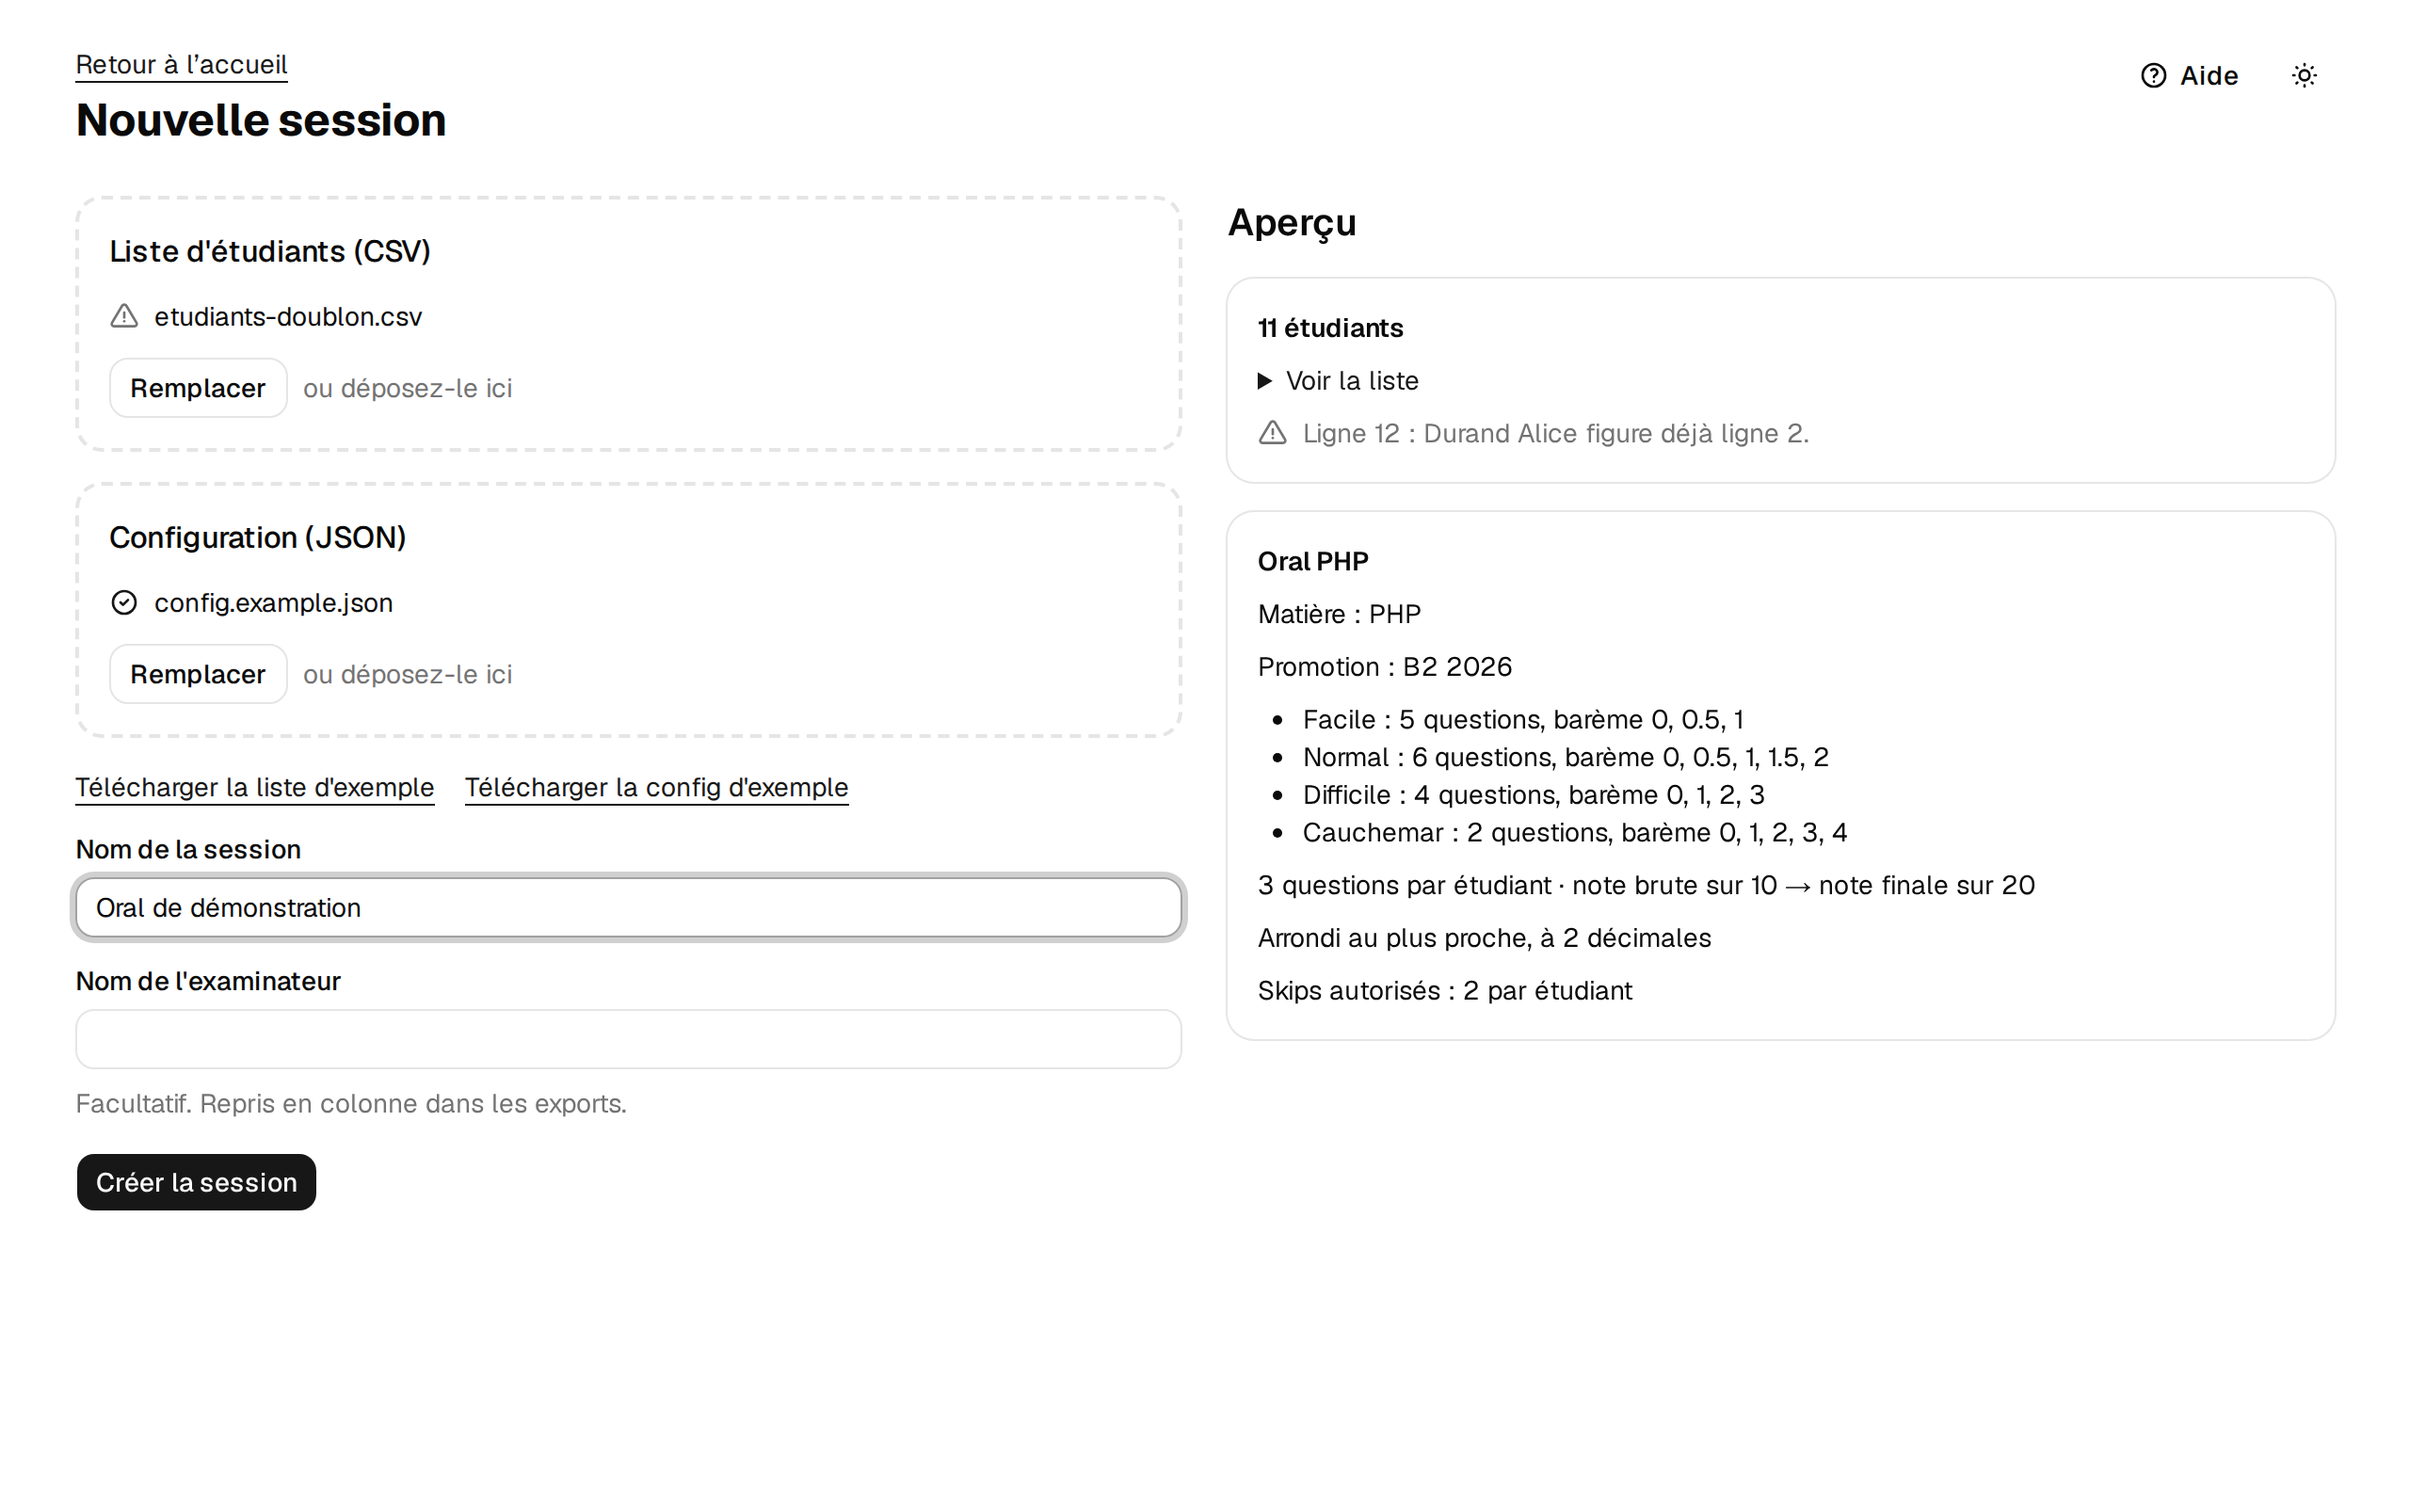
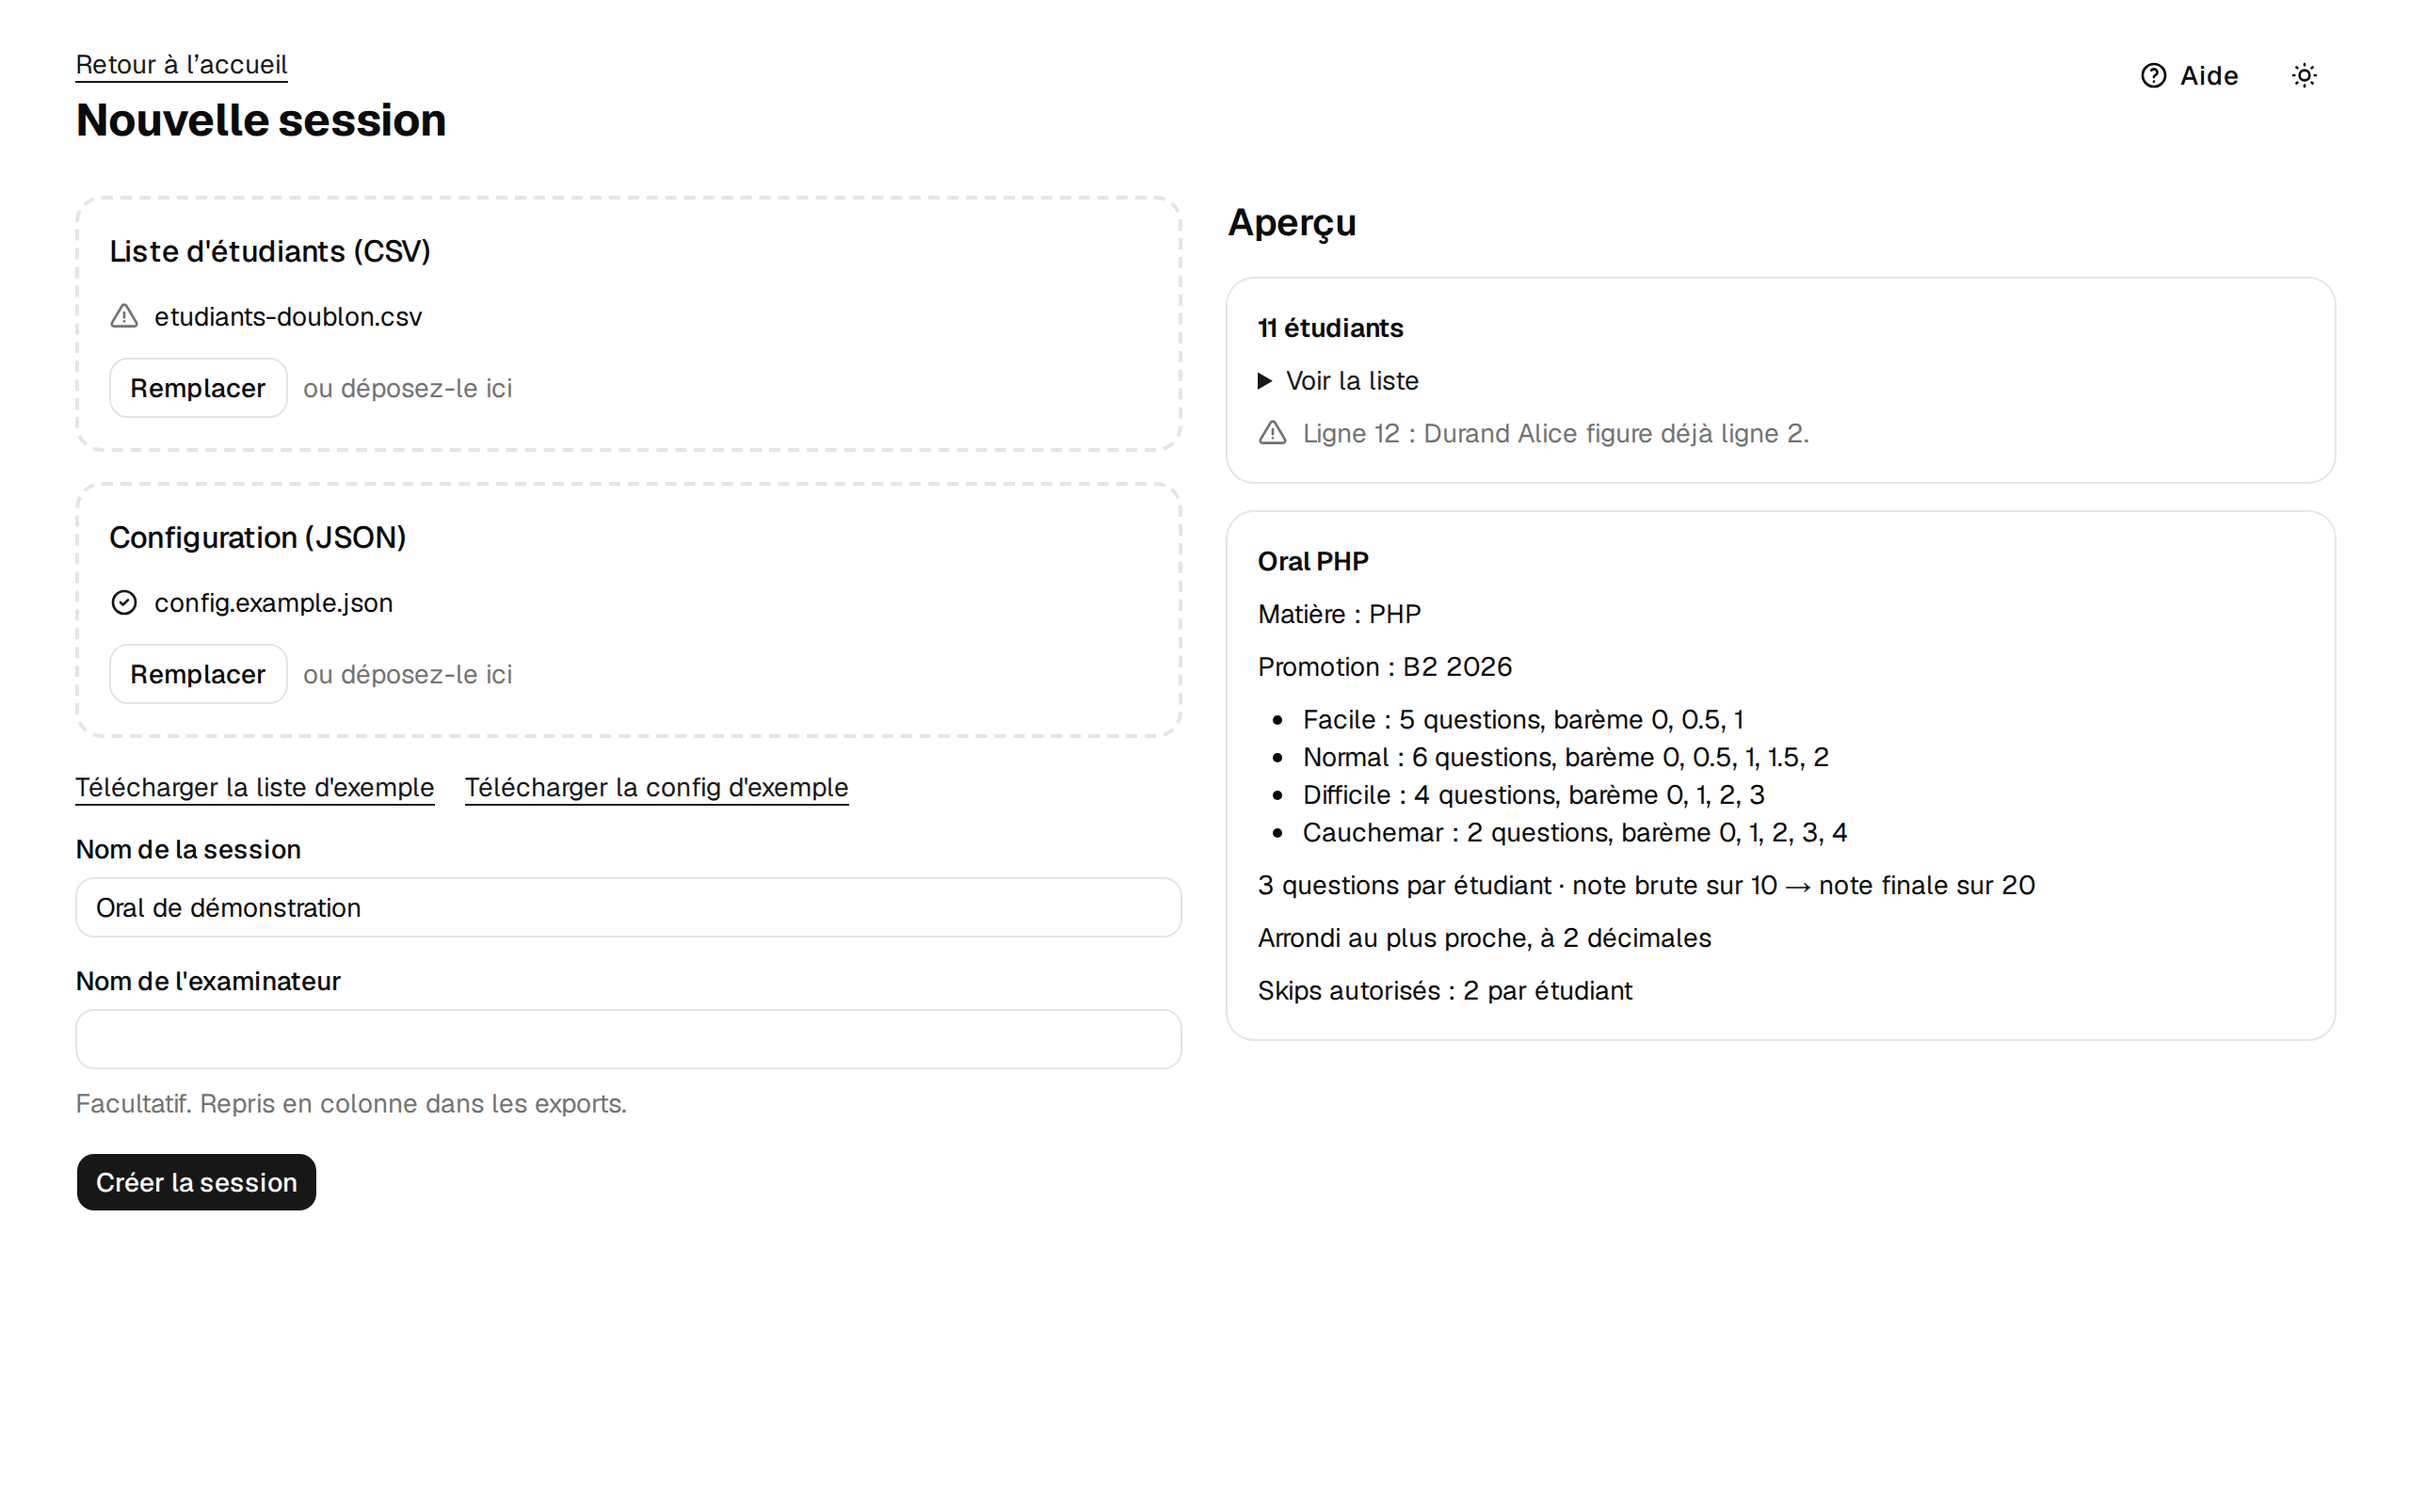
🐛 Attend la barre de l'histogramme et le focus avant les captures
Claude-Session: https://claude.ai/code/session_016cZs3fAZqobifoZLYBXkgD

diff --git a/e2e/screenshots/guide.spec.ts b/e2e/screenshots/guide.spec.ts
@@ -1,7 +1,27 @@
 import { readFileSync, writeFileSync } from 'node:fs'
+import type { Page } from '@playwright/test'
 import { examplePath } from '../fixtures.ts'
 import { HomePage } from '../pages/home-page.ts'
 import { capture, expect, test } from './determinism.ts'
+
+/**
+ * Attend que l'animation d'entrée de recharts ait fini : la barre est visible et sa hauteur, non
+ * nulle, est la même à 400 ms d'intervalle (l'animation dure moins). `animations: 'disabled'` ne
+ * couvre que CSS et Web Animations, pas cette animation JS.
+ */
+async function expectBarDrawn(page: Page): Promise<void> {
+  const bar = page.locator('.recharts-bar-rectangle path').first()
+  await expect(bar).toBeVisible()
+  await expect
+    .poll(() =>
+      bar.evaluate(async (path) => {
+        const before = path.getBoundingClientRect().height
+        await new Promise((resolve) => setTimeout(resolve, 400))
+        return before > 0 && before === path.getBoundingClientRect().height
+      }),
+    )
+    .toBe(true)
+}
 
 const SESSION_NAME = 'Oral de démonstration'
 
@@ -22,6 +42,7 @@ test('parcours complet : création, passage, vue projetée, statistiques, édite
   await create.uploadConfig(examplePath('config.example.json'))
   await create.fillName(SESSION_NAME)
   await expect(page.getByRole('textbox', { name: 'Nom de la session' })).toHaveValue(SESSION_NAME)
+  await page.getByRole('textbox', { name: 'Nom de la session' }).blur()
   await capture(page, 'creation-session')
 
   const examiner = await create.submit()
@@ -58,6 +79,7 @@ test('parcours complet : création, passage, vue projetée, statistiques, édite
   const stats = await examiner.openStats()
   await expect(stats.headcount('Terminés')).toHaveText('1')
   await expect(stats.histogram).toBeAttached()
+  await expectBarDrawn(page)
   await capture(page, 'statistiques')
 
   await home.goto()
@@ -82,5 +104,6 @@ test('création : un CSV avec un doublon affiche un avertissement', async ({ pag
   await create.uploadConfig(examplePath('config.example.json'))
   await create.fillName(SESSION_NAME)
   await expect(page.getByText('Fichier valide, avec avertissements')).toBeVisible()
+  await page.getByRole('textbox', { name: 'Nom de la session' }).blur()
   await capture(page, 'creation-avertissements')
 })

diff --git a/e2e/screenshots/determinism.ts b/e2e/screenshots/determinism.ts
@@ -58,6 +58,9 @@ export { expect } from '@playwright/test'
 
 /** Capture `site/public/screenshots/<name>.png` (page entière visible ou élément). */
 export async function capture(target: Page | Locator, name: string): Promise<void> {
+  // Polices chargées avant la prise de vue (garde contre une variation de rendu du texte).
+  if ('goto' in target) await target.evaluate(() => document.fonts.ready)
+  else await target.evaluate(() => document.fonts.ready)
   await target.screenshot({
     path: `${OUT_DIR}/${name}.png`,
     animations: 'disabled',
